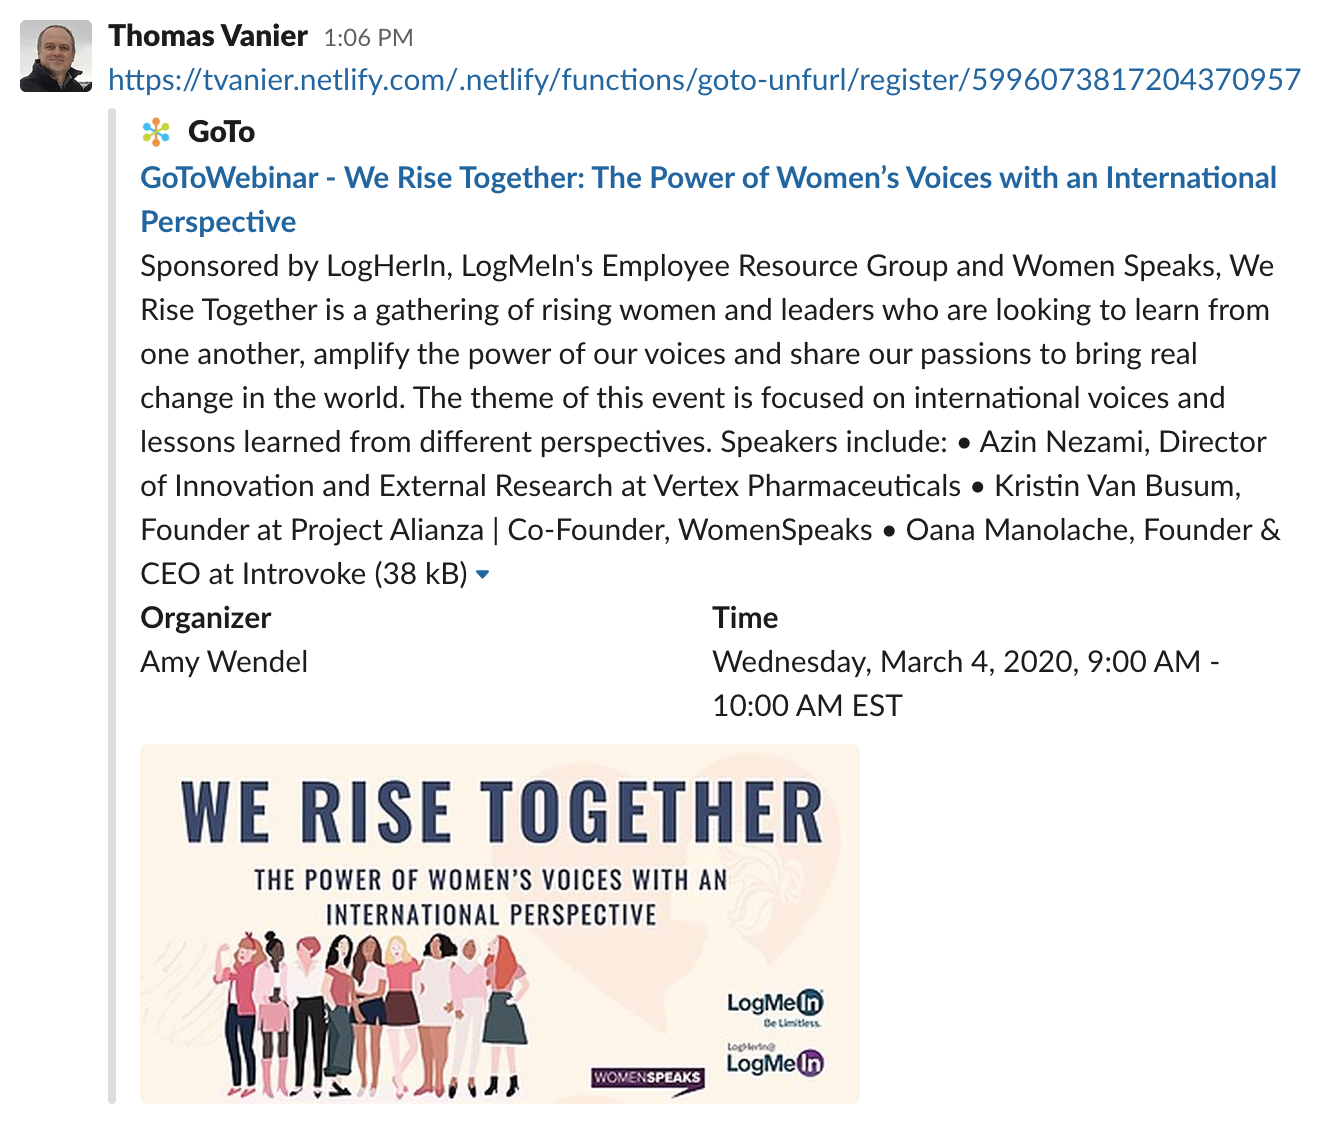
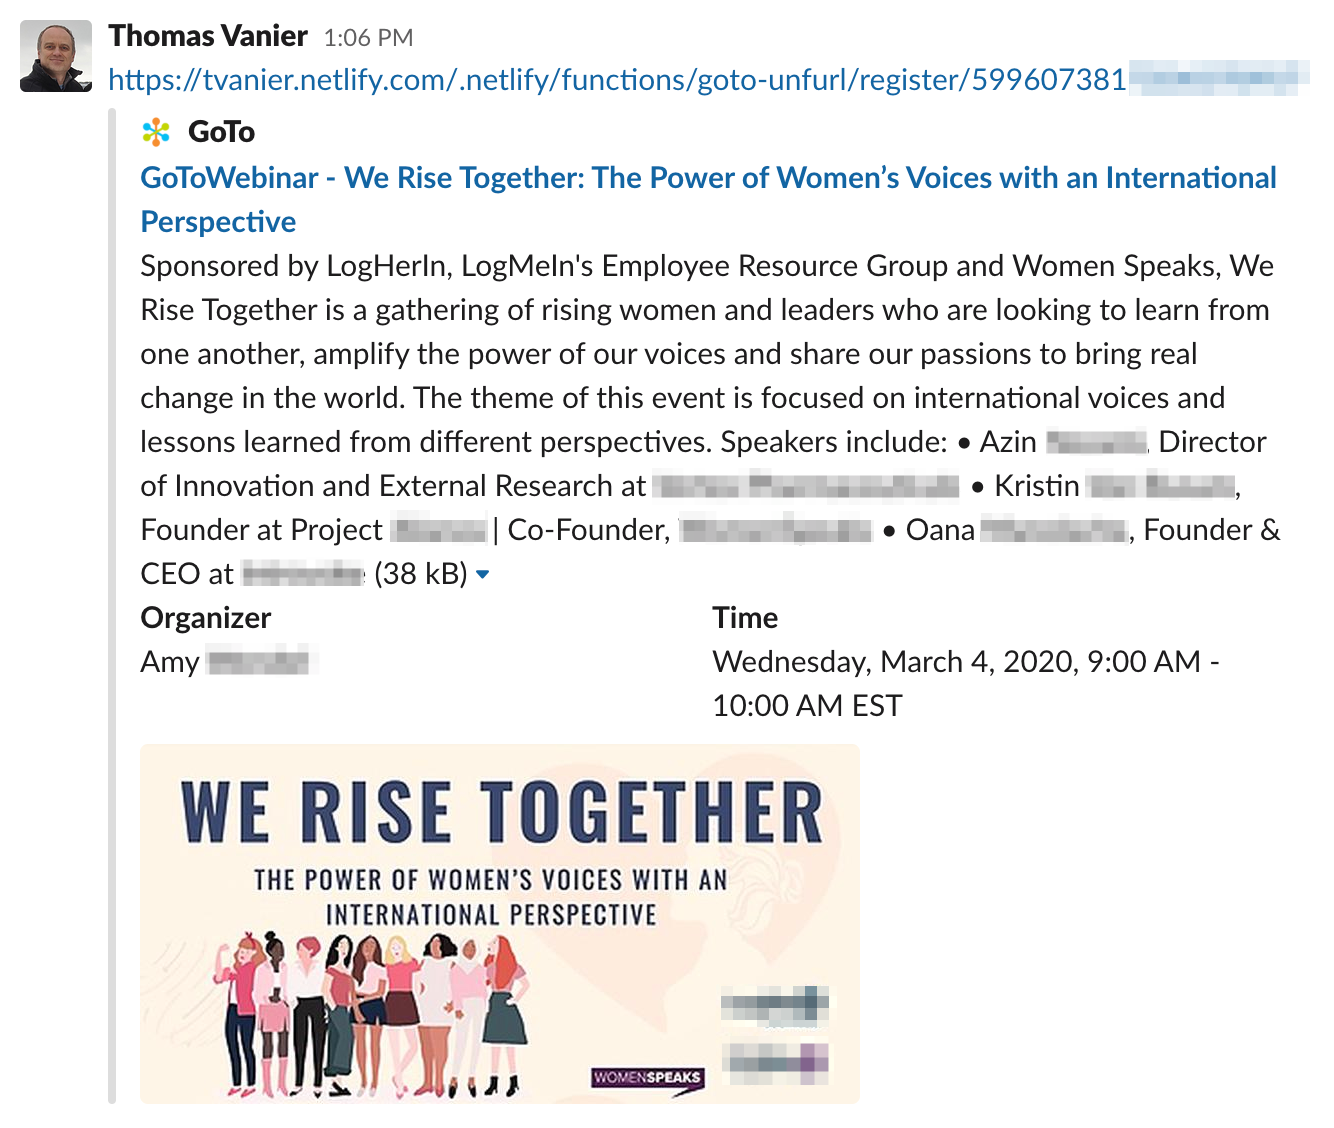
anonymize docs

diff --git a/README.md b/README.md
@@ -16,15 +16,15 @@ The function is currently deployed on Netlify at `https://tvanier.netlify.com/.n
 
 `/join/{meeting-id}` where `{meeting-id}` is either
 - a 9-digit id such as `123456789`
-- a meeting room name such as `tvanier`
+- a meeting room name such as `my-room`
 
 `/register/{webinar-key}` where `{webinar-key}` is a webinar key, usually 18 or more characters
 
 ## Implementation
 
-The current function implementation depends on Node.js version 10 or greater. There is no other dependency.
+The current function implementation has no external dependency on purpose, to illustrate how one single JS file can be deployed as a cloud function with no build step. The function runs on Node.js version 10 or greater.
 The whole function code is in `goto-unfurl.js`, which currently
-- works against the G2M production environment (no ED, RC etc)
+- works against the GoTo production environment
 - fetches images (ex: logo) from `tvanier.netlify.com`
 - is meant to be deployed on Netlify as documented here
 https://docs.netlify.com/functions/overview/
@@ -33,9 +33,9 @@ https://docs.netlify.com/functions/overview/
 
 The function can be tested locally by running the `test.js` script, which takes a path as first argument. Examples:
 ```
-node test.js /join/753869749
+node test.js /join/123456789
 
-node test.js /register/4992149326305460236
+node test.js /register/123456789123456789
 ```
 
 The test script prints the function return to the console.
@@ -43,9 +43,9 @@ The test script prints the function return to the console.
 When deploying to a cloud, like Netlify for example, the function can be invoked with utilities like curl:
 
 ```
-curl https://tvanier.netlify.com/.netlify/functions/goto-unfurl/join/753869749
+curl https://tvanier.netlify.com/.netlify/functions/goto-unfurl/join/123456789
 
-curl https://tvanier.netlify.com/.netlify/functions/goto-unfurl/register/4992149326305460236
+curl https://tvanier.netlify.com/.netlify/functions/goto-unfurl/register/123456789123456789
 ```
 
 End-to-end testing can be perfomed by sharing links in social media. In Slack, it is possible to send links to yourself.
